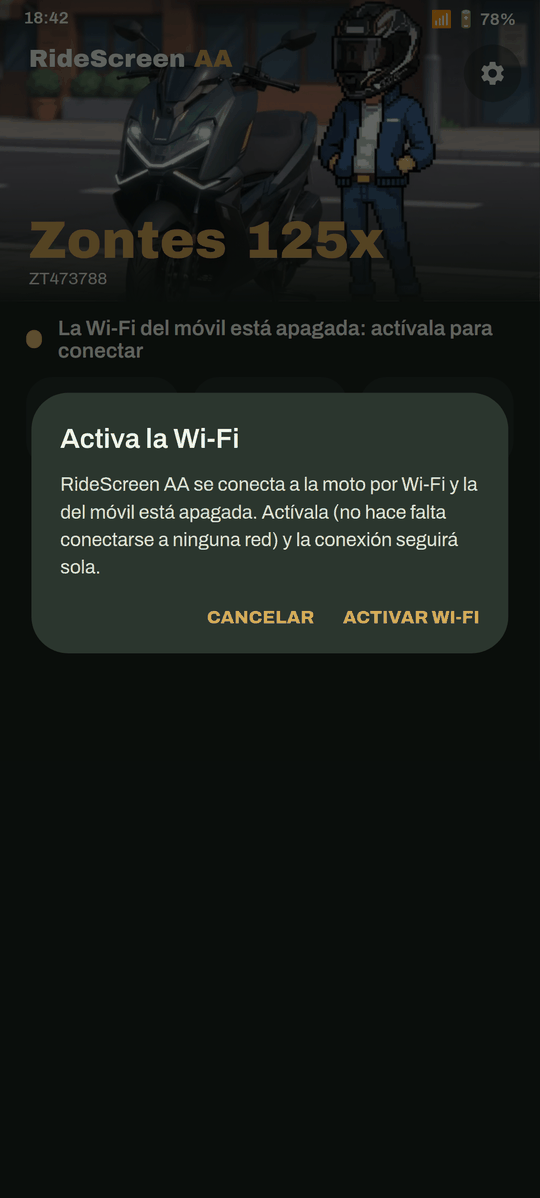
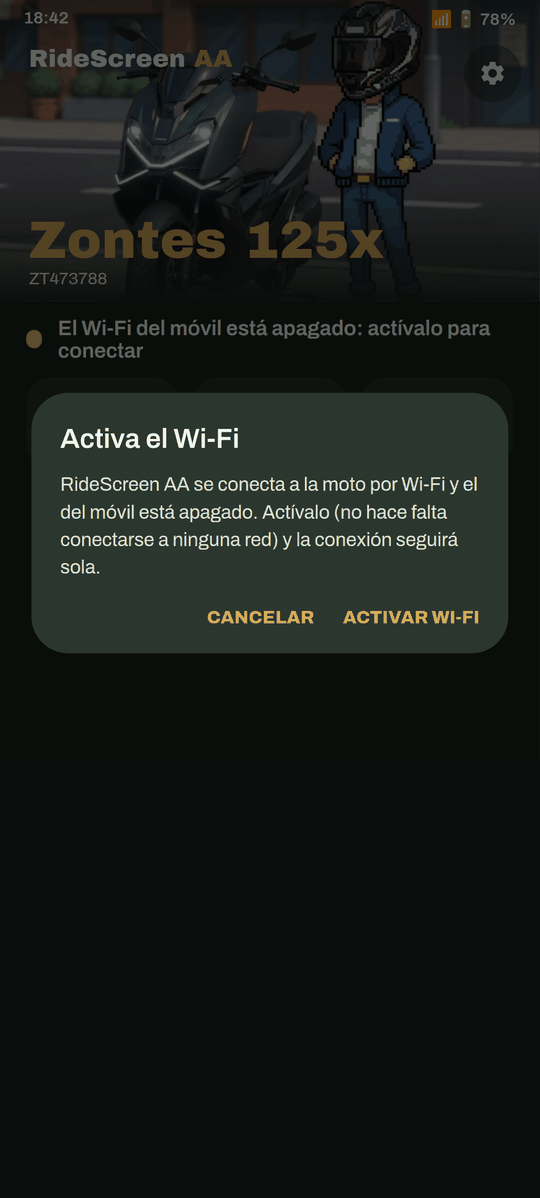
v2.2 (es): 'el Wi-Fi' instead of 'la Wi-Fi' in app strings, release notes, guide and screenshots (Catalan unchanged)
Claude-Session: https://claude.ai/code/session_01M1475VRaMw3fomj176HQwU

diff --git a/site/guia/index.html b/site/guia/index.html
@@ -95,7 +95,7 @@ a { color: var(--accent); }
     <ul>
       <li>Móvil Android 10 o más reciente, de 64 bits (casi todos los de los últimos 5 años).</li>
       <li>Android Auto instalado y actualizado desde Play Store. Ábrelo una vez y acepta sus condiciones.</li>
-      <li>La Wi‑Fi del móvil activada. No hace falta estar conectado a ninguna red.</li>
+      <li>El Wi‑Fi del móvil activado. No hace falta estar conectado a ninguna red.</li>
       <li>Si tienes la app oficial de la moto (Zontes / EasyConnection / Carbit), ciérrala: en Ajustes → Apps → esa app → <kbd>Forzar detención</kbd>.</li>
       <li>La moto encendida y parada, para el primer emparejamiento.</li>
     </ul>
@@ -134,7 +134,7 @@ a { color: var(--accent); }
         <div class="txt">
           <h3>Abre RideScreen y acepta los permisos</h3>
           <p>La primera vez se abre la Configuración. Acepta todos los permisos que pida, o toca <strong>Todos concedidos</strong> para revisarlos de una vez.</p>
-          <p>La ubicación la exige Android para unirse a la Wi‑Fi de la moto y para guardar tus viajes. La app no te rastrea.</p>
+          <p>La ubicación la exige Android para unirse al Wi‑Fi de la moto y para guardar tus viajes. La app no te rastrea.</p>
         </div>
         <img src="g4_permisos.png" alt="Pantalla de permisos de RideScreen con el botón Todos concedidos" loading="lazy">
       </li>
@@ -178,11 +178,11 @@ a { color: var(--accent); }
       </li>
       <li class="step">
         <div class="txt">
-          <h3>Acepta la Wi‑Fi de la moto</h3>
-          <p>Toca <strong>Conectar</strong> en RideScreen. Android pregunta si la app puede conectarse a la Wi‑Fi de la moto (se llama como tu moto, por ejemplo ZT…). Toca <strong>Conectar</strong>.</p>
+          <h3>Acepta el Wi‑Fi de la moto</h3>
+          <p>Toca <strong>Conectar</strong> en RideScreen. Android pregunta si la app puede conectarse al Wi‑Fi de la moto (se llama como tu moto, por ejemplo ZT…). Toca <strong>Conectar</strong>.</p>
           <div class="note warn">Hazlo enseguida: la ventana caduca al minuto y medio. Si se te pasa, vuelve a tocar Conectar en la app.</div>
         </div>
-        <img src="g8_wifi.png" alt="Ventana de Android para conectar a la Wi‑Fi de la moto con Conectar resaltado" loading="lazy">
+        <img src="g8_wifi.png" alt="Ventana de Android para conectar al Wi‑Fi de la moto con Conectar resaltado" loading="lazy">
       </li>
       <li class="step">
         <div class="txt">
@@ -212,7 +212,7 @@ a { color: var(--accent); }
       <details>
         <summary>"Acepta el selector de Wi‑Fi o de dispositivos del teléfono…"<small>Al conectar</small></summary>
         <ul>
-          <li>Salió la ventana de la Wi‑Fi de la moto y no se aceptó a tiempo. Toca Conectar otra vez y acepta enseguida.</li>
+          <li>Salió la ventana del Wi‑Fi de la moto y no se aceptó a tiempo. Toca Conectar otra vez y acepta enseguida.</li>
           <li>Si la ventana no llega a salir: la moto tiene que estar encendida y cerca, y el cuadro en la interfaz 3.</li>
           <li>Si sale pero nunca conecta, comprueba que escaneaste el QR de la interfaz 3 y no el de Información. Si dudas, vuelve a escanearlo.</li>
         </ul>
@@ -220,13 +220,13 @@ a { color: var(--accent); }
       <details>
         <summary>"Concede Dispositivos cercanos / Bluetooth y vuelve a tocar Conectar"<small>Al conectar</small></summary>
         <ul>
-          <li>Falta el permiso <strong>Dispositivos cercanos</strong>, que Android exige para conectar con la Wi‑Fi y el Bluetooth de la moto.</li>
+          <li>Falta el permiso <strong>Dispositivos cercanos</strong>, que Android exige para conectar con el Wi‑Fi y el Bluetooth de la moto.</li>
           <li>Ajustes del móvil → Aplicaciones → RideScreen AA → Permisos → <strong>Dispositivos cercanos</strong> → Permitir. Luego toca Conectar.</li>
         </ul>
       </details>
       <details>
-        <summary>"La Wi‑Fi del móvil está desactivada" (phone Wi‑Fi is off)<small>Al conectar</small></summary>
-        <p>Activa la Wi‑Fi en el móvil. No hace falta conectarse a ninguna red: la app se une sola a la de la moto.</p>
+        <summary>"El Wi‑Fi del móvil está desactivado" (phone Wi‑Fi is off)<small>Al conectar</small></summary>
+        <p>Activa el Wi‑Fi en el móvil. No hace falta conectarse a ninguna red: la app se une sola a la de la moto.</p>
       </details>
       <details>
         <summary>"Cierra la app oficial y vuelve a conectar"<small>Al conectar</small></summary>

diff --git a/.github/release-notes.md b/.github/release-notes.md
@@ -13,9 +13,9 @@ Basada en [OpenCfMoto](https://github.com/zanderp/open-cfmoto) de Alexandru (zan
 - **🆘 Detector de caídas** (opcional, en *Configuración → Extras de ruta*): si mientras vas en moto el móvil nota un golpe fuerte y después todo se queda quieto, y el móvil acaba tumbado (moto o motorista en el suelo), suena una alarma de 60 s en el móvil y en el reloj. Frenar en un semáforo después de un bache no la dispara. Si nadie pulsa **«Estoy bien»**, envía un SMS con tu ubicación a hasta 3 contactos, y otro a los 5 minutos. Tiene botón para simularlo (también con 15 s de margen para bloquear el móvil) y SMS de prueba. Nunca llama a emergencias por su cuenta. No es un dispositivo certificado.
 
 **Conexión**
-- **🔌 Vuelve a conectar sola al encender la moto**: pasados 20 minutos sin la moto, en vez de rendirse, sigue esperando su Wi-Fi en **modo ahorro** y conecta cuando la enciendes. Si eliges el Bluetooth del cuadro como activador, ahora lo reconoce aunque el móvil lo tenga emparejado con dos direcciones, y solo arranca si la Wi-Fi de la moto está encendida (el Bluetooth del cuadro sigue activo con la moto apagada).
+- **🔌 Vuelve a conectar sola al encender la moto**: pasados 20 minutos sin la moto, en vez de rendirse, sigue esperando su Wi-Fi en **modo ahorro** y conecta cuando la enciendes. Si eliges el Bluetooth del cuadro como activador, ahora lo reconoce aunque el móvil lo tenga emparejado con dos direcciones, y solo arranca si el Wi-Fi de la moto está encendido (el Bluetooth del cuadro sigue activo con la moto apagada).
 - **🎙 «Ok Google» y los botones de voz** del intercomunicador y del reloj vuelven a funcionar: la app pide el micrófono al conectar (elige *«Mientras se usa la app»*).
-- **🔌 Primera conexión más fácil**: el permiso de "Dispositivos cercanos", el Bluetooth y la Wi-Fi apagados, y la pregunta de Android para conectar a la Wi-Fi de la moto se explican paso a paso.
+- **🔌 Primera conexión más fácil**: el permiso de "Dispositivos cercanos", el Bluetooth y el Wi-Fi apagados, y la pregunta de Android para conectar al Wi-Fi de la moto se explican paso a paso.
 - **🎯 Ajustar la pantalla al cuadro** con flechas, viendo el resultado **en directo en la moto** (un marco amarillo marca la zona de Android Auto). La medida manual del panel sigue a la vista, también para paneles verticales.
 
 **En ruta**
